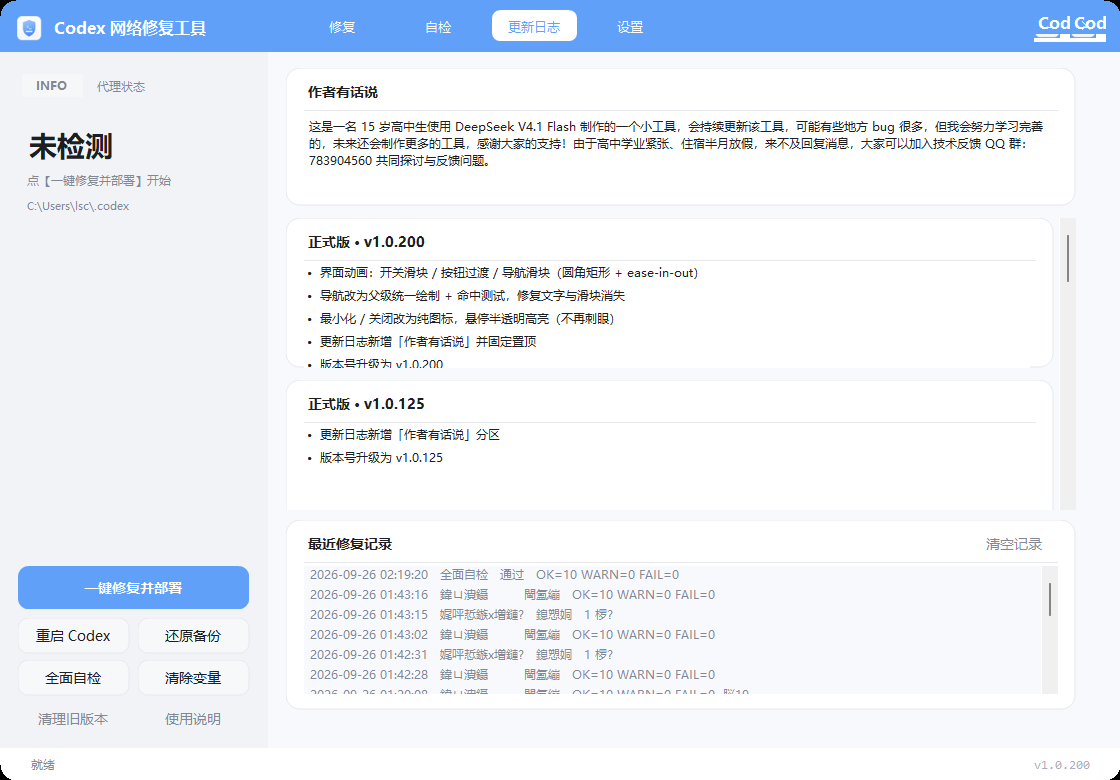
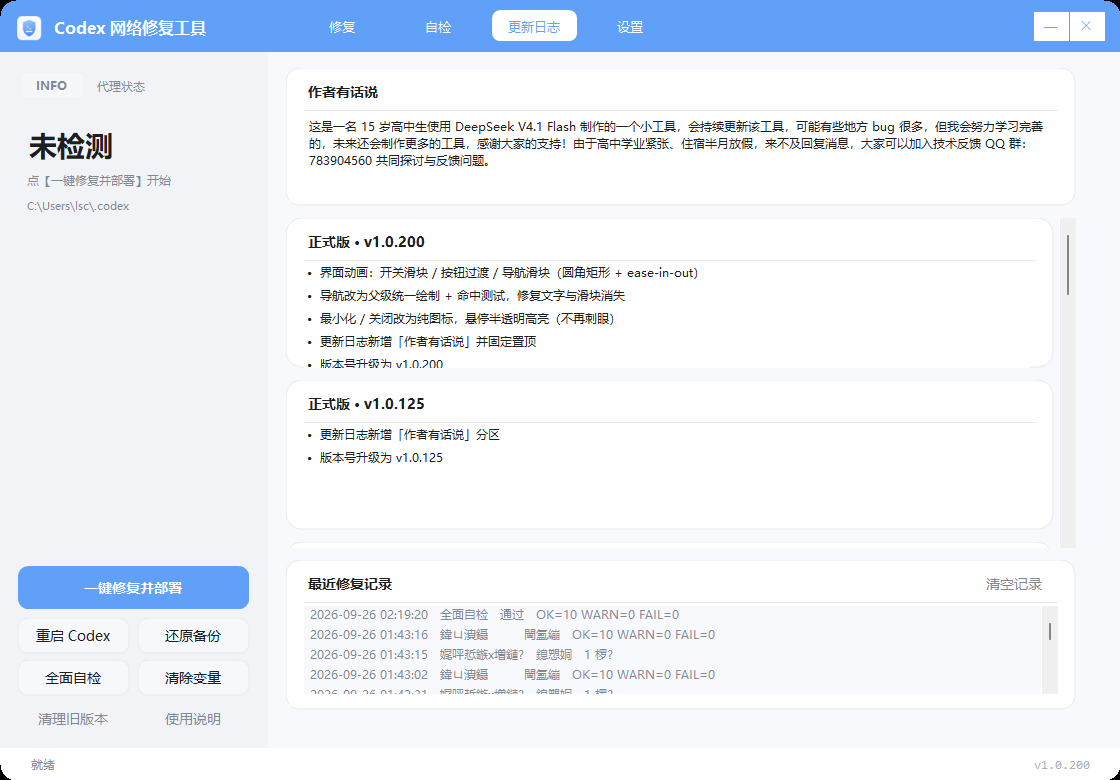
fix(ui): 更新日志版本卡片不再被遮挡（列表加高 + 圆角加大到 16）

diff --git a/src/Program.cs b/src/Program.cs
@@ -611,13 +611,14 @@ namespace CodexNetFix
         void BuildAboutPage()
         {
             FlowLayoutPanel flow = new FlowLayoutPanel();
-            flow.Left = 0; flow.Top = 150; flow.Width = 790; flow.Height = 292;
+            flow.Left = 0; flow.Top = 150; flow.Width = 790; flow.Height = 330;
             flow.AutoScroll = true; flow.FlowDirection = FlowDirection.LeftToRight; flow.WrapContents = true;
             flow.Tag = "flowbg"; flow.Name = "versionFlow";
             foreach (VersionLog v in AppVersion.All())
 
             {
                 RoundPanel c = MkCard((v.Bate ? "测试版 · " : "正式版 · ") + v.Version, 0, 0, 768, 150);
+                c.Radius = 16;   // 圆角更明显
                 c.Margin = new Padding(0, 0, 0, 12);
                 FillBullets(c, v.Items, 726, 21);
                 flow.Controls.Add(c);
@@ -630,7 +631,7 @@ namespace CodexNetFix
             pageAbout.Controls.Add(authorFixed);
             pageAbout.Controls.Add(flow);
 
-            cardHistory = MkCard("最近修复记录", 0, 452, 790, 190);
+            cardHistory = MkCard("最近修复记录", 0, 492, 790, 150);
             RoundButton clr = new RoundButton();
             clr.Text = "清空记录"; clr.Ghost = true;
             clr.Width = 86; clr.Height = 28; clr.Left = cardHistory.Width - 104; clr.Top = 10;
@@ -645,7 +646,7 @@ namespace CodexNetFix
             cardHistory.Controls.Add(clr);
 
             FlowLayoutPanel h = new FlowLayoutPanel();
-            h.Left = 18; h.Top = 46; h.Width = 754; h.Height = 128;
+            h.Left = 18; h.Top = 46; h.Width = 754; h.Height = 88;
             h.AutoScroll = true; h.FlowDirection = FlowDirection.TopDown; h.WrapContents = false;
             h.Tag = "flowbg"; h.Name = "historyList";
             h.Resize += delegate { foreach (Control c in h.Controls) c.Width = h.ClientSize.Width - 8; };

diff --git a/CHANGELOG.md b/CHANGELOG.md
@@ -9,6 +9,7 @@
 - 最小化 / 关闭改为**纯图标**，悬停改为**半透明**高亮（不再刺眼）
 - 更新日志新增「**作者有话说**」并固定置顶（不随版本列表滚动）
 - 导航选中态与最小化 / 关闭统一为**白色圆角矩形**（文字 / 图标用强调色），风格更统一
+- 修复：更新日志版本卡片被下方卡片遮挡（下半截与圆角看不见）——列表加高、历史卡下移；卡片圆角加大到 16
 - 版本号升级为 **v1.0.200**
 
 ## v1.0.125
